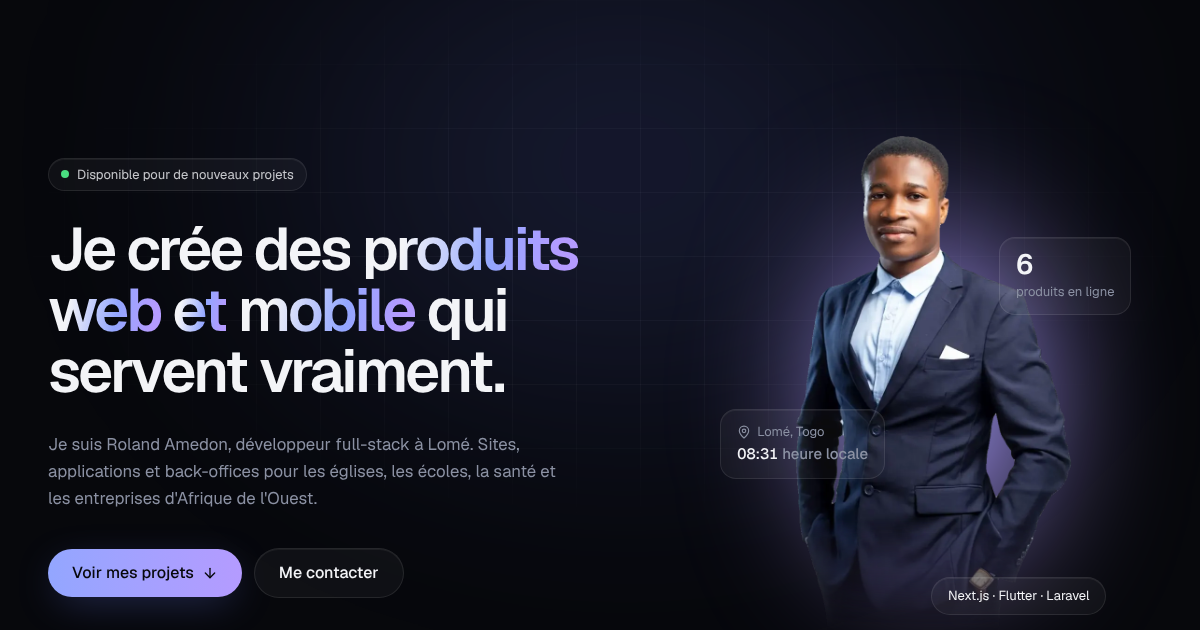
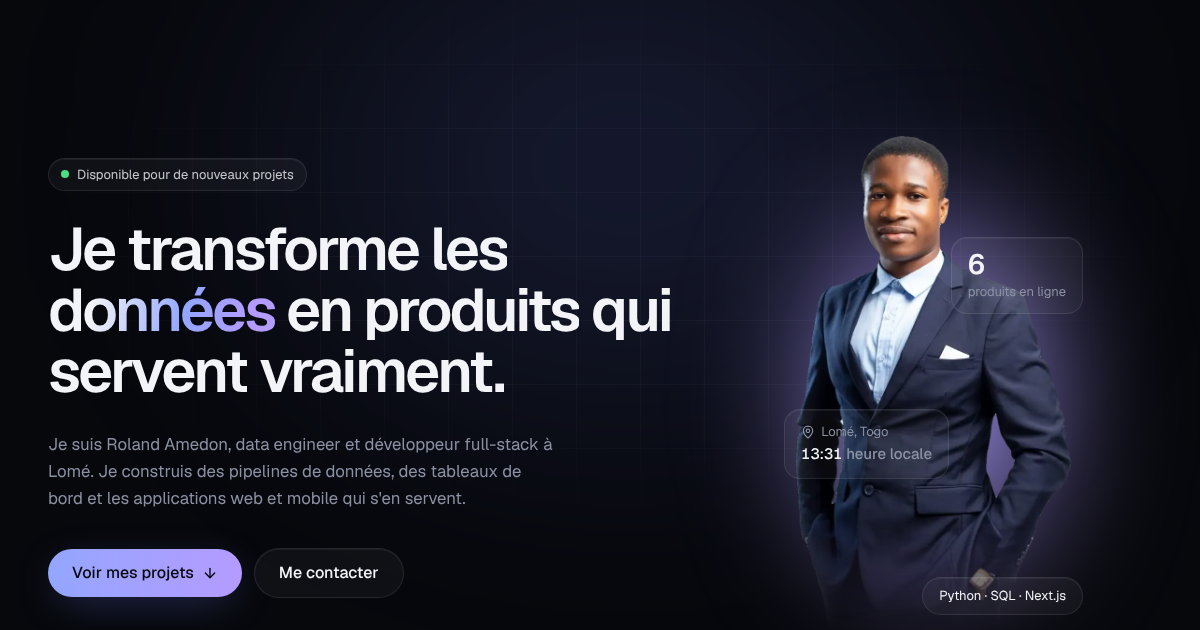
Lead with the data engineering profile and fix mobile overflow
The hero, metadata and about copy now present Roland as a data engineer
and full-stack developer. A new data section walks through collect,
transform, model and report with the tools in use, and data engineering
heads the services and the tool strip.

The atelier canvas's 560px intrinsic width stretched its grid track past
the viewport on phones, clipping the section; grid children now shrink.
Hero chips no longer hang outside the viewport below 1280px, and the nav
links only show where they fit.

Claude-Session: https://claude.ai/code/session_01SFQdvBiudMDewrxHXLk8xZ

diff --git a/src/data/site.ts b/src/data/site.ts
@@ -1,6 +1,6 @@
 export const site = {
   name: "Roland Amedon",
-  role: "Développeur full-stack",
+  role: "Data engineer et développeur full-stack",
   city: "Lomé",
   country: "Togo",
   timeZone: "Africa/Lome",
@@ -12,10 +12,10 @@ export const site = {
 };
 
 export const about = {
-  lead: "Je m'appelle Roland Amedon. Je vis et je travaille à Lomé, où je signe mes projets sous le nom RolandTech.",
+  lead: "Je m'appelle Roland Amedon. Data engineer et développeur full-stack, je vis et je travaille à Lomé, où je signe mes projets sous le nom RolandTech.",
   body: [
     "Mes projets naissent de besoins très concrets autour de moi : une église qui veut diffuser ses cultes, des parents qui veulent payer l'école sans faire la queue, une famille qui veut garder la trace de ses anciens.",
-    "Je m'occupe de tout le parcours, de la première conversation à la mise en ligne : le design, le site, l'application mobile, le back-office et la prise en main par votre équipe.",
+    "Ma spécialité : faire circuler les données proprement, de leur source jusqu'aux tableaux de bord et aux applications qui s'en servent. Je m'occupe de tout le parcours, des pipelines au site, à l'application mobile et au back-office.",
   ],
   facts: [
     { label: "Basé à", value: "Lomé, Togo" },
@@ -203,6 +203,12 @@ export const sideWork: Side[] = [
 
 export const services = [
   {
+    icon: "data",
+    title: "Data engineering",
+    text: "Collecter, nettoyer et centraliser vos données dans des pipelines fiables, prêts pour l'analyse et les tableaux de bord.",
+    tools: "Python, Pandas, SQL",
+  },
+  {
     icon: "web",
     title: "Sites et applications web",
     text: "Des sites rapides sur un téléphone d'entrée de gamme, bien référencés et faciles à faire évoluer.",
@@ -220,13 +226,17 @@ export const services = [
     text: "Des espaces d'administration pour que votre équipe publie, encaisse et suive tout sans moi.",
     tools: "Laravel, Node.js, MongoDB",
   },
-  {
-    icon: "design",
-    title: "Design produit",
-    text: "Des maquettes cliquables pour valider les parcours avant d'écrire la première ligne de code.",
-    tools: "Maquettes, prototypes",
-  },
 ] as const;
+
+/** Data profile: what each stage of the pipeline covers, and with which tools. */
+export const dataStages = [
+  { step: "Collecter", text: "Extraire les données d'API, de bases et de fichiers Excel ou CSV.", tools: "Python, SQL" },
+  { step: "Transformer", text: "Nettoyer, croiser et structurer avec des scripts reproductibles.", tools: "Pandas, NumPy" },
+  { step: "Modéliser", text: "Construire des modèles de prédiction et de classification.", tools: "Scikit-learn" },
+  { step: "Restituer", text: "Livrer des tableaux de bord que l'équipe consulte sans moi.", tools: "Power BI, Tableau" },
+];
+
+export const dataTools = ["Python", "Pandas", "NumPy", "SQL", "Scikit-learn", "Power BI", "Tableau", "Jupyter"];
 
 export const method = [
   {
@@ -245,11 +255,4 @@ export const method = [
     title: "Transmettre",
     text: "Chaque projet part avec son espace d'administration et une prise en main. Votre équipe publie seule, sans m'appeler pour changer une date.",
   },
-];
-
-export const craft = [
-  { group: "Web", items: ["Next.js", "React", "TypeScript", "Tailwind CSS", "GSAP"] },
-  { group: "Mobile", items: ["Flutter", "Dart"] },
-  { group: "Serveur et données", items: ["Laravel", "PHP", "Node.js", "MongoDB", "Redis"] },
-  { group: "Analyse", items: ["Python", "Jupyter"] },
 ];

diff --git a/src/components/Data.tsx b/src/components/Data.tsx
@@ -1,0 +1,66 @@
+import { BrainCircuit, ChartColumn, DatabaseZap, Shuffle } from "lucide-react";
+import { dataStages, dataTools } from "@/data/site";
+import { SectionHeading } from "./SectionHeading";
+
+const icons = [DatabaseZap, Shuffle, BrainCircuit, ChartColumn];
+
+/** The data profile as a pipeline: four stages from raw source to dashboard. */
+export function Data() {
+  return (
+    <section id="data" className="px-gutter relative py-28 md:py-36">
+      <div
+        aria-hidden
+        className="pointer-events-none absolute right-0 top-10 h-[30rem] w-[40rem] rounded-full opacity-40 blur-[120px]"
+        style={{ background: "radial-gradient(closest-side, var(--glow), transparent)" }}
+      />
+      <div className="relative mx-auto max-w-6xl">
+        <div className="grid gap-8 lg:grid-cols-12 lg:items-end">
+          <div className="lg:col-span-7">
+            <SectionHeading
+              tag="Data engineering"
+              title={
+                <>
+                  Des données brutes
+                  <br />
+                  <span className="text-gradient">aux décisions claires.</span>
+                </>
+              }
+            />
+          </div>
+          <p className="max-w-[46ch] text-[1.08rem] leading-relaxed text-muted lg:col-span-5">
+            Je construis la chaîne complète : collecter les données, les fiabiliser, en tirer des
+            modèles et les restituer dans des tableaux de bord lisibles par toute l&apos;équipe.
+          </p>
+        </div>
+
+        <ol className="mt-14 grid gap-4 sm:grid-cols-2 lg:grid-cols-4">
+          {dataStages.map((s, i) => {
+            const Icon = icons[i];
+            return (
+              <li key={s.step} className="glass relative flex flex-col rounded-[24px] p-6">
+                <div className="flex items-center justify-between">
+                  <span className="grid h-12 w-12 place-items-center rounded-2xl border border-line bg-gradient-to-br from-accent/25 to-accent-2/10 text-accent">
+                    <Icon className="h-5 w-5" />
+                  </span>
+                  <span className="tabular text-[13px] text-muted">0{i + 1}</span>
+                </div>
+                <h3 className="mt-8 text-[1.3rem] font-semibold tracking-[-0.02em]">{s.step}</h3>
+                <p className="mt-2 text-[15px] leading-relaxed text-muted">{s.text}</p>
+                <p className="mt-auto pt-6 text-[13px] text-fg/70">{s.tools}</p>
+              </li>
+            );
+          })}
+        </ol>
+
+        <div className="mt-8 flex flex-wrap items-center gap-2">
+          <span className="mr-2 text-[13px] text-muted">Outils data</span>
+          {dataTools.map((t) => (
+            <span key={t} className="glass rounded-full px-3.5 py-1.5 text-[13px]">
+              {t}
+            </span>
+          ))}
+        </div>
+      </div>
+    </section>
+  );
+}

diff --git a/src/components/Hero.tsx b/src/components/Hero.tsx
@@ -83,13 +83,14 @@ export function Hero() {
             data-headline
             className="mt-7 text-[clamp(2.6rem,5vw,4.6rem)] font-semibold leading-[1.02] tracking-[-0.045em]"
           >
-            Je crée des <span className="text-gradient">produits web et mobile</span> qui servent
-            vraiment.
+            Je transforme les <span className="text-gradient">données</span> en produits qui
+            servent vraiment.
           </h1>
 
           <p data-intro data-rise className="mt-7 max-w-[46ch] text-[clamp(1.05rem,1.4vw,1.2rem)] leading-relaxed text-muted">
-            Je suis Roland Amedon, développeur full-stack à Lomé. Sites, applications et back-offices
-            pour les églises, les écoles, la santé et les entreprises d&apos;Afrique de l&apos;Ouest.
+            Je suis Roland Amedon, data engineer et développeur full-stack à Lomé. Je construis des
+            pipelines de données, des tableaux de bord et les applications web et mobile qui s&apos;en
+            servent.
           </p>
 
           <div data-intro data-rise className="mt-9 flex flex-wrap items-center gap-3">
@@ -128,7 +129,7 @@ export function Hero() {
             />
           </div>
 
-          <div data-intro data-chip data-depth="26" className="glass absolute -left-4 bottom-[30%] rounded-2xl px-4 py-3 text-[13px] sm:-left-16">
+          <div data-intro data-chip data-depth="26" className="glass absolute left-0 bottom-[30%] rounded-2xl px-4 py-3 text-[13px] xl:-left-16">
             <div className="flex items-center gap-1.5 text-muted">
               <MapPin className="h-3.5 w-3.5" /> {site.city}, {site.country}
             </div>
@@ -137,13 +138,13 @@ export function Hero() {
             </div>
           </div>
 
-          <div data-intro data-chip data-depth="40" className="glass absolute -right-4 top-[22%] rounded-2xl px-4 py-3 sm:-right-12">
+          <div data-intro data-chip data-depth="40" className="glass absolute right-0 top-[22%] rounded-2xl px-4 py-3 xl:-right-12">
             <div className="text-[28px] font-semibold leading-none tracking-tight">{projects.length}</div>
             <div className="mt-1 text-[13px] text-muted">produits en ligne</div>
           </div>
 
-          <div data-intro data-chip data-depth="18" className="glass absolute bottom-[3%] right-[-2%] whitespace-nowrap rounded-full px-4 py-2 text-[13px] sm:right-[-8%]">
-            Next.js · Flutter · Laravel
+          <div data-intro data-chip data-depth="18" className="glass absolute bottom-[3%] right-0 whitespace-nowrap rounded-full px-4 py-2 text-[13px] xl:right-[-8%]">
+            Python · SQL · Next.js
           </div>
         </div>
       </div>

diff --git a/src/components/Atelier.tsx b/src/components/Atelier.tsx
@@ -108,8 +108,8 @@ export function Atelier() {
           className="pointer-events-none absolute -right-40 -top-40 h-[34rem] w-[34rem] rounded-full opacity-50 blur-[120px]"
           style={{ background: "radial-gradient(closest-side, #e2a43a, transparent)" }}
         />
-        <div className="relative grid gap-12 lg:grid-cols-12 lg:items-center">
-          <div className="lg:col-span-6">
+        <div className="relative grid min-w-0 gap-12 lg:grid-cols-12 lg:items-center">
+          <div className="min-w-0 lg:col-span-6">
             <SectionHeading
               tag="Atelier"
               title="Tissez votre prénom en kente"
@@ -148,7 +148,7 @@ export function Atelier() {
             </form>
           </div>
 
-          <figure className="lg:col-span-5 lg:col-start-8">
+          <figure className="min-w-0 lg:col-span-5 lg:col-start-8">
             <div className="glass rounded-[28px] p-3">
               <canvas
                 ref={canvas}
@@ -156,7 +156,7 @@ export function Atelier() {
                 height={HEIGHT}
                 role="img"
                 aria-label={`Motif de kente tissé à partir du prénom ${woven}`}
-                className="block aspect-[4/5] w-full rounded-[20px] bg-[#141a30]"
+                className="block aspect-[4/5] h-auto w-full max-w-full rounded-[20px] bg-[#141a30]"
               />
             </div>
             <figcaption className="mt-4 flex flex-wrap items-center justify-between gap-4 px-1 text-[13px] text-muted">

diff --git a/src/app/layout.tsx b/src/app/layout.tsx
@@ -12,12 +12,12 @@ const geist = Geist({
 });
 
 const description =
-  "Roland Amedon, développeur full-stack à Lomé. Sites, applications mobiles et back-offices pour les églises, les écoles, la santé et les entreprises d'Afrique de l'Ouest.";
+  "Roland Amedon, data engineer et développeur full-stack à Lomé. Pipelines de données, tableaux de bord, sites et applications mobiles pour les organisations d'Afrique de l'Ouest.";
 
 export const metadata: Metadata = {
   metadataBase: new URL(site.url),
   title: {
-    default: "Roland Amedon, développeur full-stack à Lomé",
+    default: "Roland Amedon, data engineer et développeur full-stack",
     template: "%s, Roland Amedon",
   },
   description,
@@ -27,12 +27,12 @@ export const metadata: Metadata = {
     locale: "fr_FR",
     url: "/",
     siteName: site.name,
-    title: "Roland Amedon, développeur full-stack à Lomé",
+    title: "Roland Amedon, data engineer et développeur full-stack",
     description,
   },
   twitter: {
     card: "summary_large_image",
-    title: "Roland Amedon, développeur full-stack à Lomé",
+    title: "Roland Amedon, data engineer et développeur full-stack",
     description,
   },
 };

diff --git a/src/components/Services.tsx b/src/components/Services.tsx
@@ -1,10 +1,10 @@
 "use client";
 
-import { Globe, PenTool, Server, Smartphone } from "lucide-react";
+import { Database, Globe, Server, Smartphone } from "lucide-react";
 import { services } from "@/data/site";
 import { SectionHeading } from "./SectionHeading";
 
-const icons = { web: Globe, mobile: Smartphone, server: Server, design: PenTool };
+const icons = { data: Database, web: Globe, mobile: Smartphone, server: Server };
 
 function spotlight(e: React.PointerEvent<HTMLElement>) {
   const box = e.currentTarget.getBoundingClientRect();
@@ -24,8 +24,8 @@ export function Services() {
         <SectionHeading
           tag="Services"
           align="center"
-          title="Du premier croquis à la mise en ligne"
-          intro="Un seul interlocuteur pour le design, le web, le mobile et le back-office. Moins d'allers-retours, un produit cohérent."
+          title="De la donnée à la mise en ligne"
+          intro="Un seul interlocuteur pour la data, le web, le mobile et le back-office. Moins d'allers-retours, un produit cohérent."
         />
 
         <ul className="mt-14 grid gap-5 sm:grid-cols-2">

diff --git a/src/components/Nav.tsx b/src/components/Nav.tsx
@@ -5,6 +5,7 @@ import { ArrowUpRight } from "lucide-react";
 import { ThemeToggle } from "./ThemeToggle";
 
 const links = [
+  { href: "#data", label: "Data" },
   { href: "#travaux", label: "Projets" },
   { href: "#services", label: "Services" },
   { href: "#a-propos", label: "À propos" },
@@ -36,7 +37,7 @@ export function Nav() {
           <span className="hidden text-[15px] font-medium tracking-tight sm:inline">Roland Amedon</span>
         </a>
 
-        <nav aria-label="Principale" className="hidden md:block">
+        <nav aria-label="Principale" className="hidden lg:block">
           <ul className="flex items-center gap-1 text-[14px]">
             {links.map((l) => (
               <li key={l.href}>

diff --git a/src/components/Contact.tsx b/src/components/Contact.tsx
@@ -45,7 +45,7 @@ export function Contact() {
           </span>
 
           <h2 className="mx-auto mt-7 max-w-[14ch] text-[clamp(2.6rem,7vw,5.8rem)] font-semibold leading-[1] tracking-[-0.05em]">
-            Un projet en tête ? <span className="text-gradient">Parlons-en.</span>
+            Un projet en tête&nbsp;? <span className="text-gradient inline-block whitespace-nowrap">Parlons-en.</span>
           </h2>
           <p className="mx-auto mt-6 max-w-[48ch] text-[1.08rem] leading-relaxed text-muted">
             Un site à refaire, une application à lancer, un outil interne qui vous ferait gagner des

diff --git a/src/app/page.tsx b/src/app/page.tsx
@@ -1,6 +1,7 @@
 import { Nav } from "@/components/Nav";
 import { Hero } from "@/components/Hero";
 import { Marquee } from "@/components/Marquee";
+import { Data } from "@/components/Data";
 import { Work } from "@/components/Work";
 import { Services } from "@/components/Services";
 import { About } from "@/components/About";
@@ -15,6 +16,7 @@ export default function Home() {
       <main id="contenu">
         <Hero />
         <Marquee />
+        <Data />
         <Work />
         <Services />
         <About />

diff --git a/src/components/Marquee.tsx b/src/components/Marquee.tsx
@@ -1,4 +1,9 @@
 const items = [
+  "Python",
+  "Pandas",
+  "SQL",
+  "Scikit-learn",
+  "Power BI",
   "Next.js",
   "React",
   "TypeScript",
@@ -10,8 +15,8 @@ const items = [
   "MongoDB",
   "Redis",
   "Tailwind CSS",
-  "GSAP",
-  "Python",
+  "NumPy",
+  "Tableau",
   "Mobile Money",
 ];
 

diff --git a/src/app/globals.css b/src/app/globals.css
@@ -207,3 +207,4 @@ body {
     opacity: 1;
   }
 }
+
